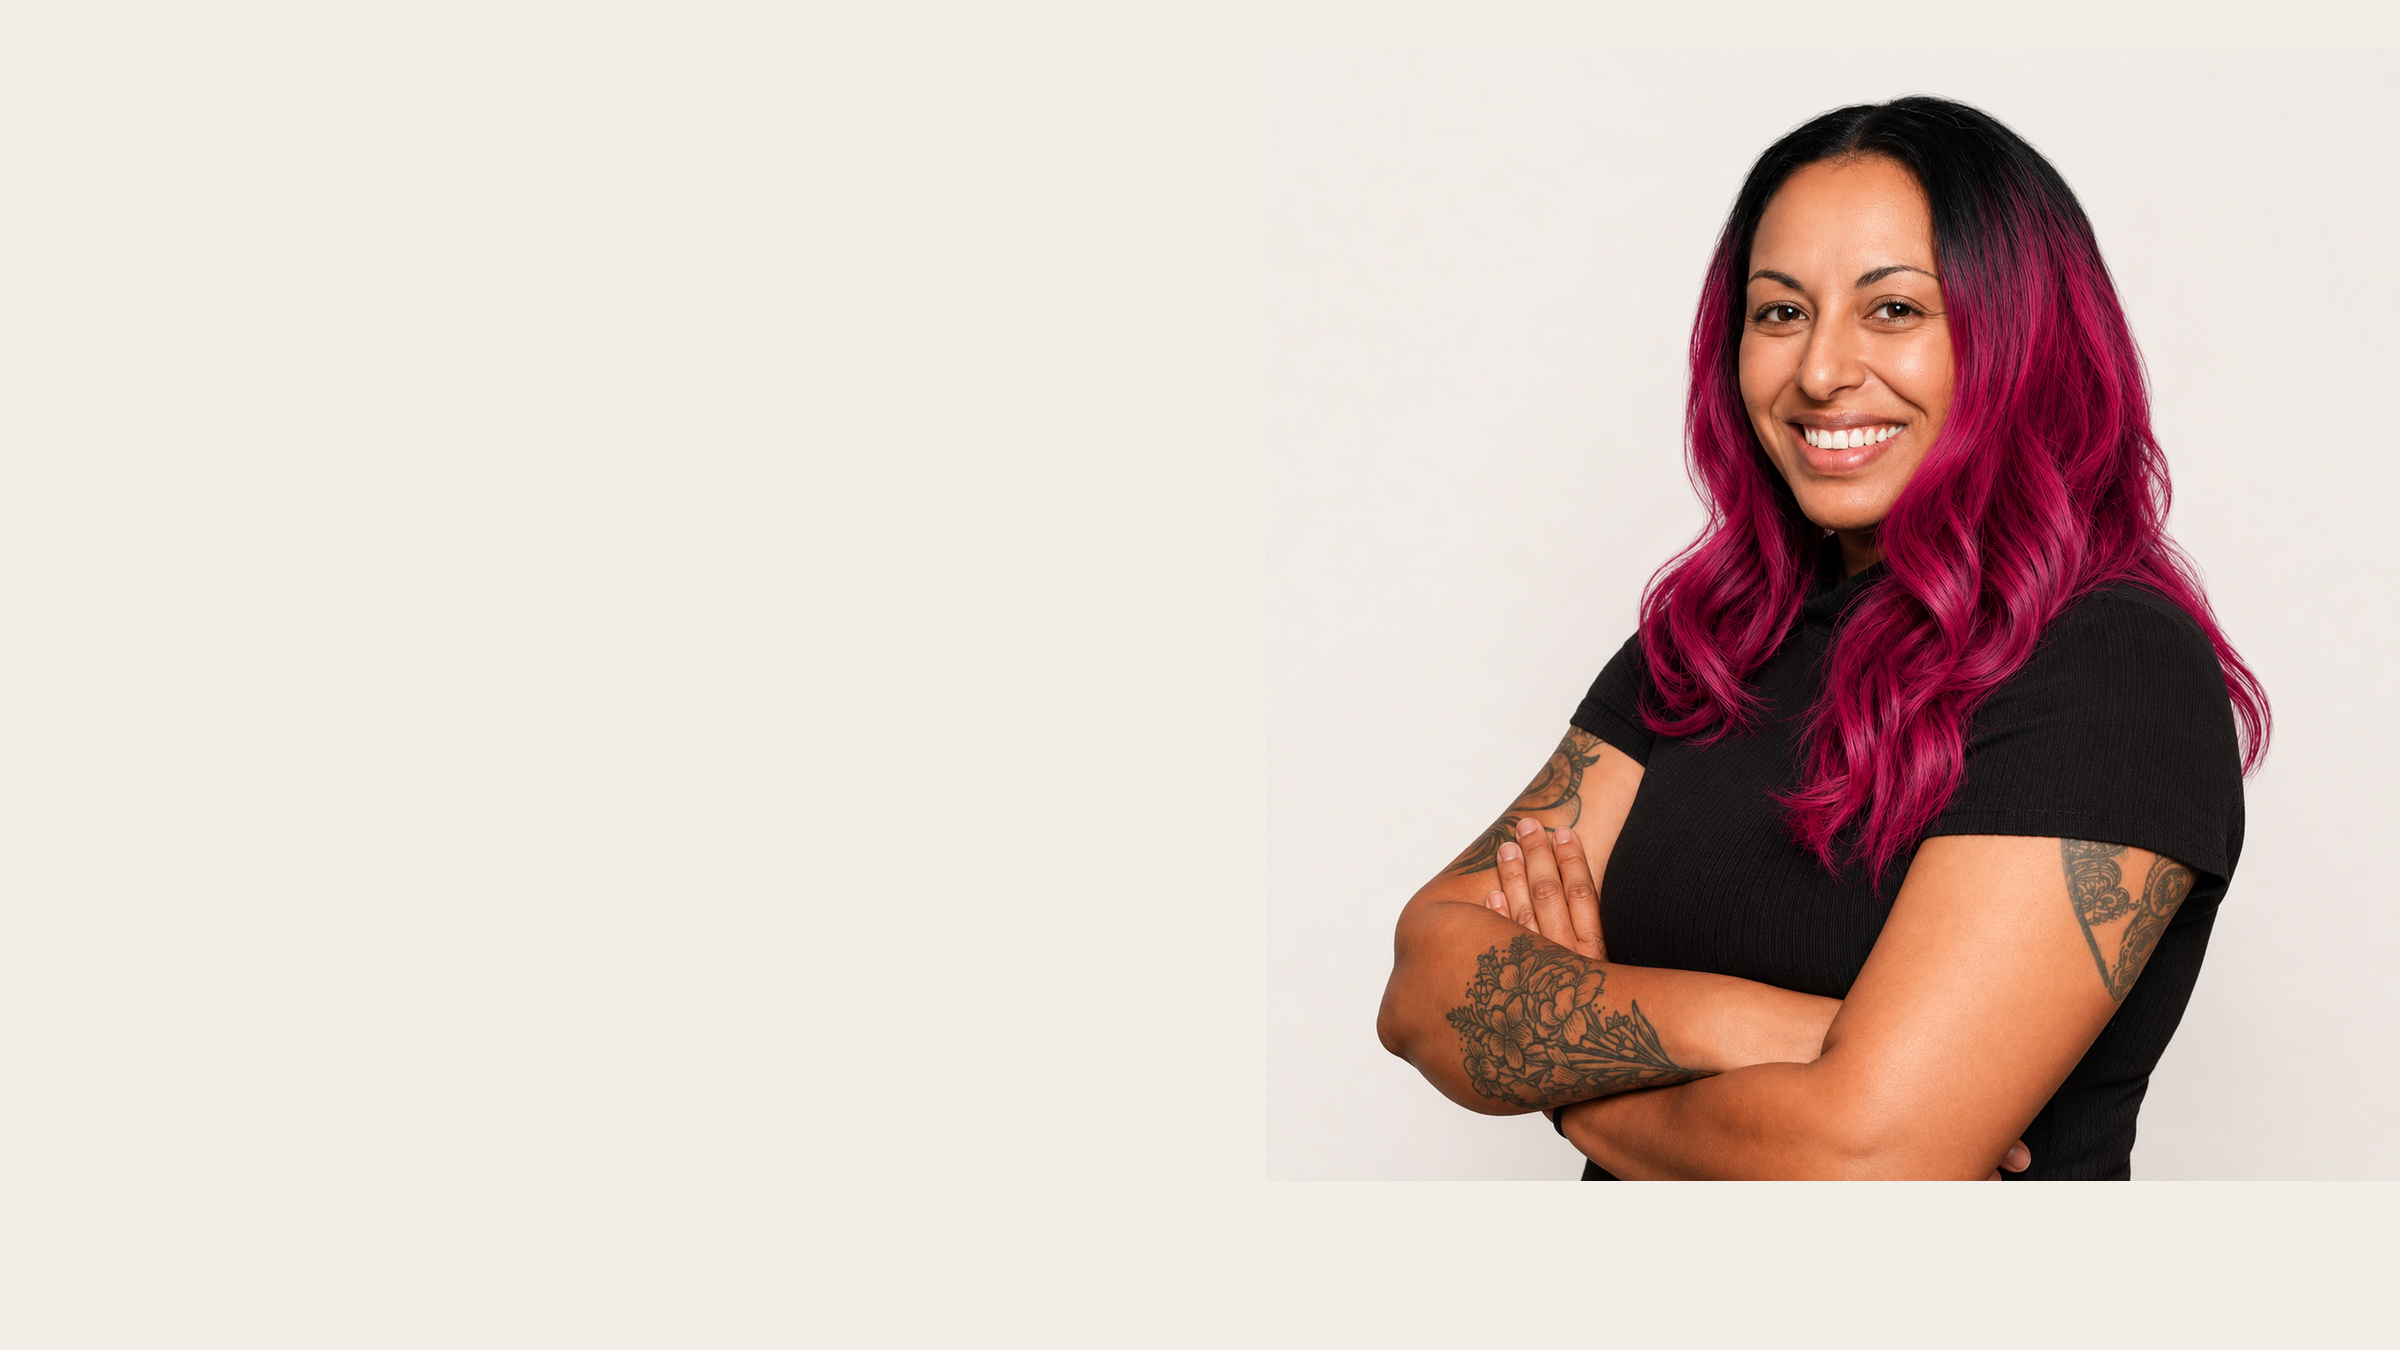
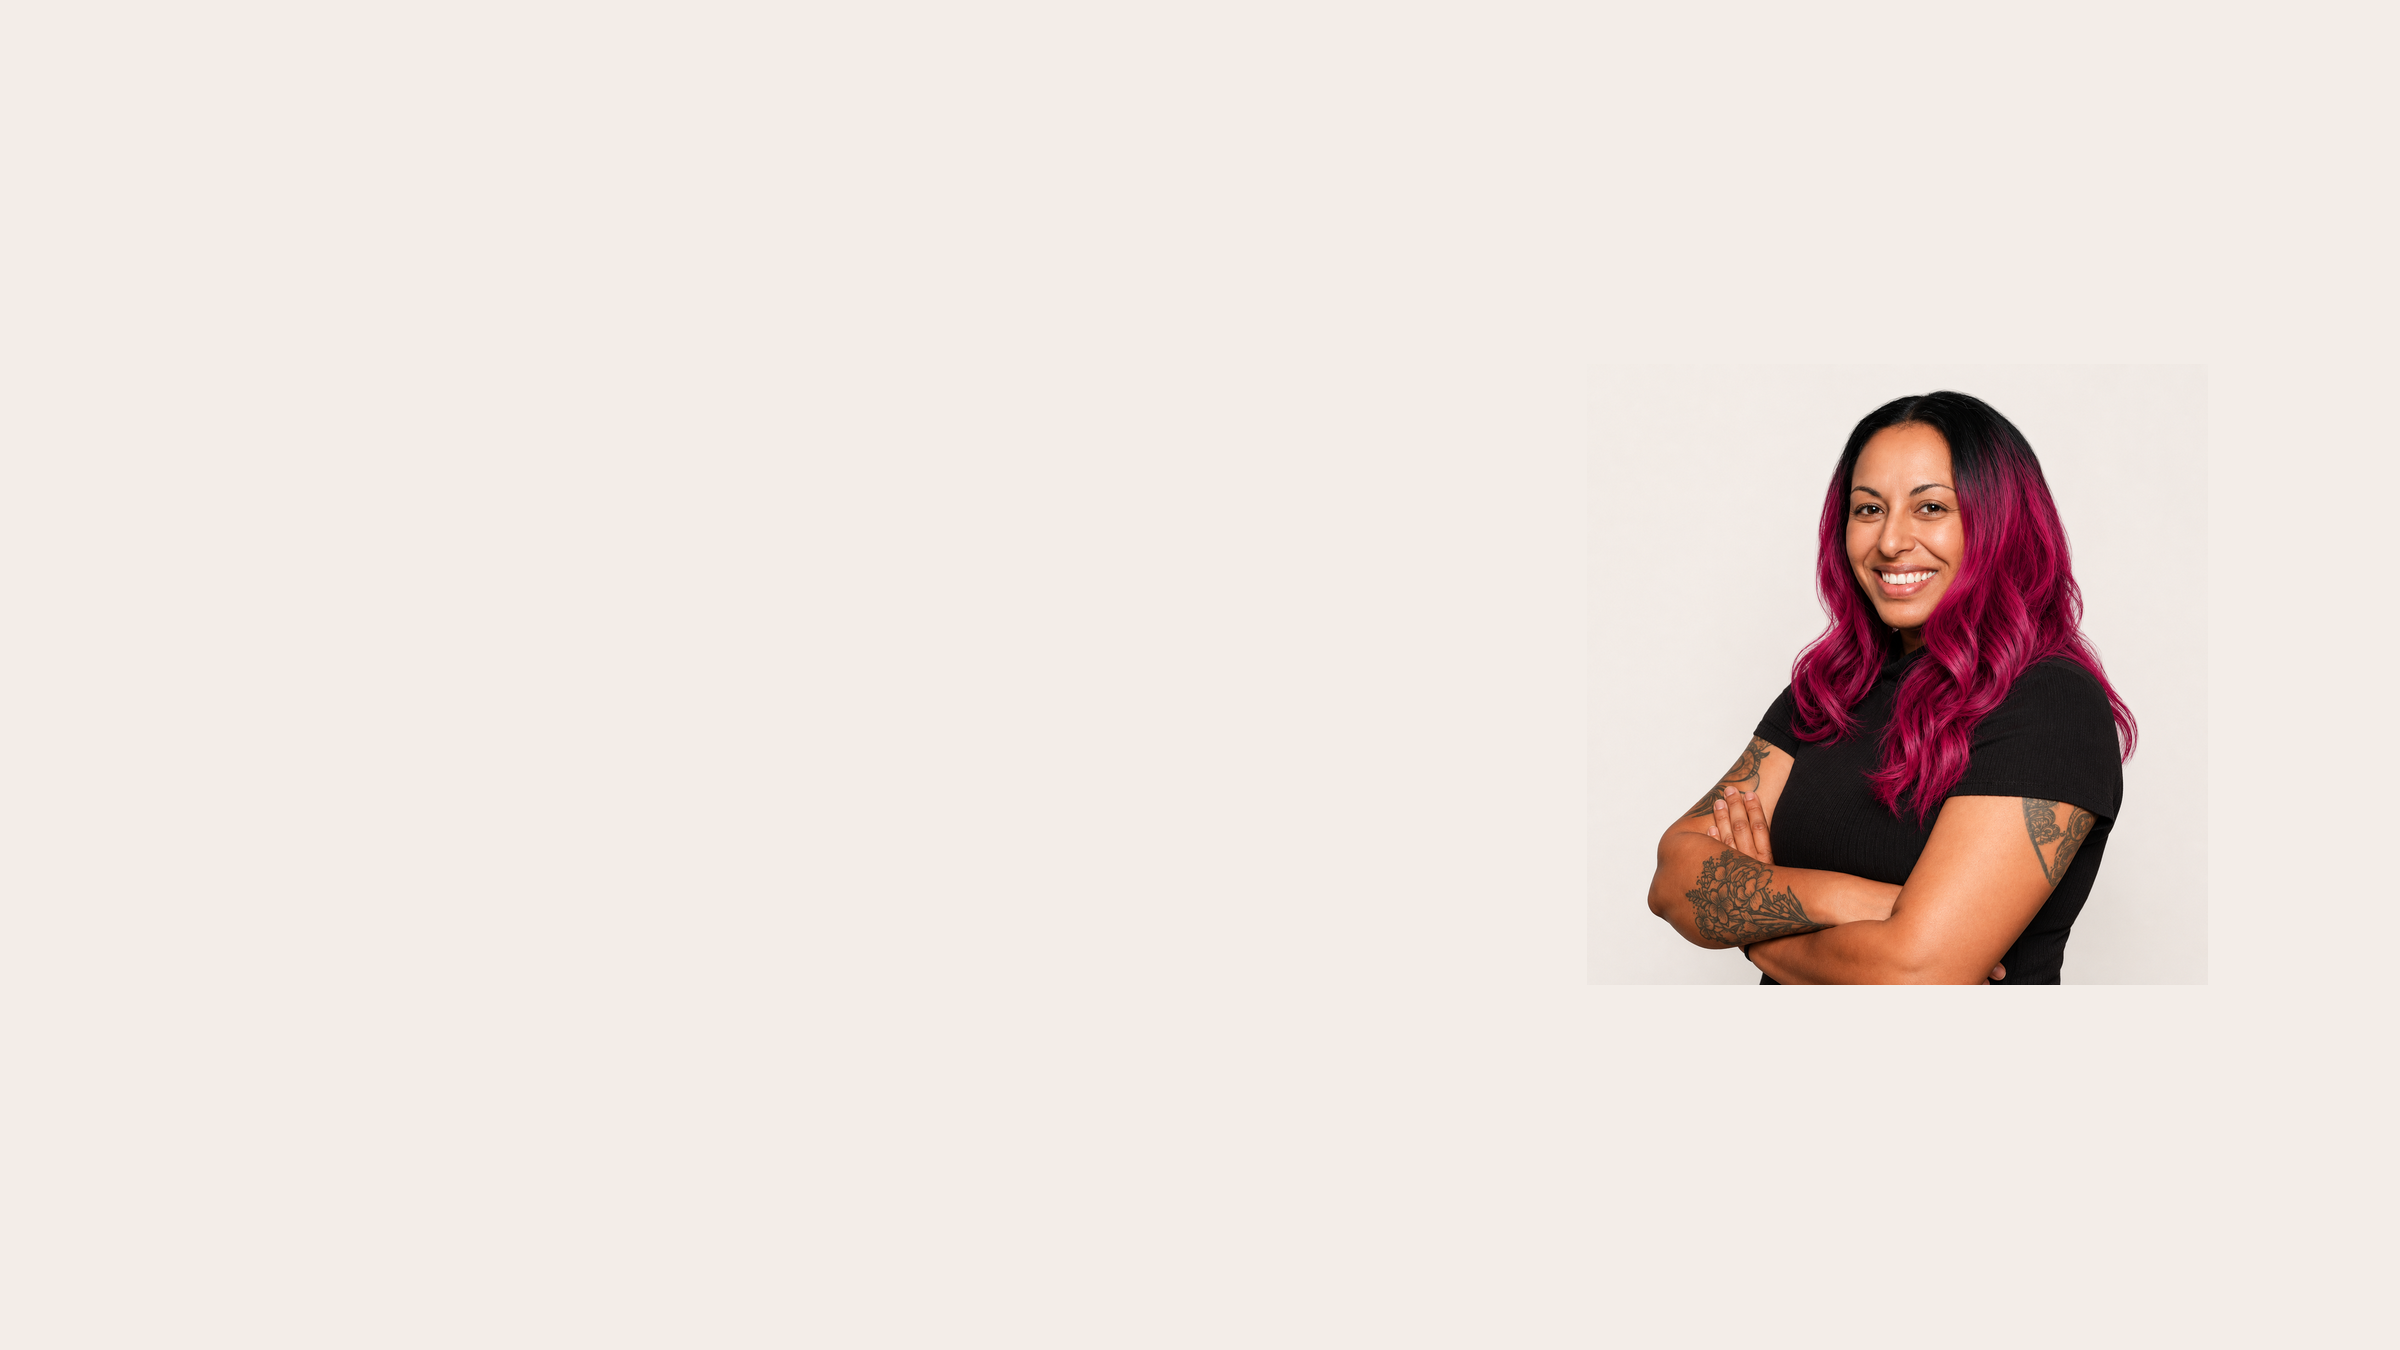
Zoom the homepage portrait out and add a live punctuation field
Pull the studio portrait back so more of Nadin is in frame, then overlay drifting asterisks and marks that gather toward the pointer and scatter on tap.

Changed region(s): [[0.5625, 0.0622, 0.9688, 0.9022]]

diff --git a/components/HeroPunctuation.tsx b/components/HeroPunctuation.tsx
@@ -1,0 +1,164 @@
+"use client";
+
+import { useEffect, useRef } from "react";
+
+const GLYPHS = ["*", "*", "*", "*", "·", "·", ",", "'", ";", ":", "→"] as const;
+
+type Mark = {
+  el: HTMLSpanElement;
+  x: number;
+  y: number;
+  vx: number;
+  vy: number;
+  phase: number;
+  spin: number;
+};
+
+export default function HeroPunctuation() {
+  const rootRef = useRef<HTMLDivElement>(null);
+  const layerRef = useRef<HTMLDivElement>(null);
+
+  useEffect(() => {
+    const root = rootRef.current;
+    const layer = layerRef.current;
+    const stage = root?.parentElement;
+    if (!root || !layer || !stage) return;
+
+    const reduceMotion = window.matchMedia(
+      "(prefers-reduced-motion: reduce)",
+    ).matches;
+    const desktop = window.matchMedia("(min-width: 768px)").matches;
+    const count = desktop ? 58 : 34;
+
+    layer.replaceChildren();
+    const marks: Mark[] = [];
+
+    for (let i = 0; i < count; i += 1) {
+      const el = document.createElement("span");
+      const glyph = GLYPHS[i % GLYPHS.length];
+      el.textContent = glyph;
+      el.className = glyph === "*" ? "hero-mark hero-mark-star" : "hero-mark";
+      const size =
+        glyph === "*" ? 13 + Math.random() * 20 : 11 + Math.random() * 9;
+      el.style.fontSize = `${size}px`;
+      el.style.opacity = String(0.16 + Math.random() * 0.42);
+      layer.appendChild(el);
+      marks.push({
+        el,
+        x: Math.random() * 0.92 + 0.04,
+        y: Math.random() * 0.88 + 0.06,
+        vx: (Math.random() - 0.5) * 0.00028,
+        vy: (Math.random() - 0.5) * 0.00022,
+        phase: Math.random() * Math.PI * 2,
+        spin: (Math.random() - 0.5) * 0.18,
+      });
+    }
+
+    const pointer = { x: 0.32, y: 0.42, active: false, burst: 0 };
+    let burstX = 0.5;
+    let burstY = 0.45;
+
+    const locate = (event: PointerEvent) => {
+      const box = stage.getBoundingClientRect();
+      return {
+        x: (event.clientX - box.left) / box.width,
+        y: (event.clientY - box.top) / box.height,
+      };
+    };
+
+    const onMove = (event: PointerEvent) => {
+      const next = locate(event);
+      pointer.x = next.x;
+      pointer.y = next.y;
+      pointer.active = true;
+    };
+    const onLeave = () => {
+      pointer.active = false;
+    };
+    const onDown = (event: PointerEvent) => {
+      const next = locate(event);
+      burstX = next.x;
+      burstY = next.y;
+      pointer.burst = 1;
+    };
+
+    stage.addEventListener("pointermove", onMove);
+    stage.addEventListener("pointerleave", onLeave);
+    stage.addEventListener("pointerdown", onDown);
+
+    let frame = 0;
+    let tick = 0;
+
+    const place = (mark: Mark, dx = 0, dy = 0, rotate = 0) => {
+      const width = stage.clientWidth;
+      const height = stage.clientHeight;
+      mark.el.style.transform = `translate3d(${(mark.x + dx) * width}px, ${(mark.y + dy) * height}px, 0) rotate(${rotate}deg)`;
+    };
+
+    for (const mark of marks) place(mark);
+
+    const step = () => {
+      tick += 1;
+      if (pointer.burst > 0) pointer.burst *= 0.935;
+
+      for (const mark of marks) {
+        if (!reduceMotion) {
+          mark.x += mark.vx;
+          mark.y += mark.vy;
+          mark.phase += 0.01;
+          if (mark.x < 0.03 || mark.x > 0.97) mark.vx *= -1;
+          if (mark.y < 0.05 || mark.y > 0.95) mark.vy *= -1;
+        }
+
+        let dx = 0;
+        let dy = 0;
+        const originX = pointer.burst > 0.03 ? burstX : pointer.x;
+        const originY = pointer.burst > 0.03 ? burstY : pointer.y;
+        const offsetX = mark.x - originX;
+        const offsetY = mark.y - originY;
+        const dist = Math.sqrt(offsetX * offsetX + offsetY * offsetY) || 0.0001;
+
+        if (pointer.burst > 0.03) {
+          const force = (pointer.burst * 0.09) / dist;
+          dx += offsetX * force;
+          dy += offsetY * force;
+        } else if (pointer.active && dist < 0.2) {
+          const pull = (0.2 - dist) * 0.14;
+          dx -= offsetX * pull;
+          dy -= offsetY * pull;
+        }
+
+        const bobX = reduceMotion ? 0 : Math.sin(mark.phase) * 5;
+        const bobY = reduceMotion ? 0 : Math.cos(mark.phase * 0.85) * 4;
+        place(
+          mark,
+          dx + bobX / stage.clientWidth,
+          dy + bobY / stage.clientHeight,
+          reduceMotion ? 0 : mark.spin * tick,
+        );
+      }
+
+      if (!reduceMotion) frame = window.requestAnimationFrame(step);
+    };
+
+    if (!reduceMotion) frame = window.requestAnimationFrame(step);
+
+    return () => {
+      window.cancelAnimationFrame(frame);
+      stage.removeEventListener("pointermove", onMove);
+      stage.removeEventListener("pointerleave", onLeave);
+      stage.removeEventListener("pointerdown", onDown);
+    };
+  }, []);
+
+  return (
+    <div ref={rootRef} className="hero-punctuation" aria-hidden="true">
+      <span className="hero-crop hero-crop-tl" />
+      <span className="hero-crop hero-crop-tr" />
+      <span className="hero-crop hero-crop-bl" />
+      <span className="hero-crop hero-crop-br" />
+      <span className="hero-ghost-asterisk">*</span>
+      <div ref={layerRef} className="hero-mark-layer" />
+    </div>
+  );
+}

diff --git a/app/page.tsx b/app/page.tsx
@@ -1,5 +1,6 @@
 import Image from "next/image";
 import Link from "next/link";
+import HeroPunctuation from "@/components/HeroPunctuation";
 import ProjectCard from "@/components/ProjectCard";
 import ReferencesCarousel from "@/components/ReferencesCarousel";
 import WorkSampleTicker from "@/components/WorkSampleTicker";
@@ -52,19 +53,21 @@ export default function HomePage() {
   return (
     <>
       {/* Mobile: content first, image second. Desktop: full-bleed overlay */}
-      <section className="bg-[var(--background)] md:relative md:min-h-[calc(100svh-65px)] md:overflow-hidden md:bg-[var(--foreground)] md:text-[var(--background)]">
-        <div className="page-pad flex flex-col pt-28 pb-10 md:hidden">
+      <section className="relative overflow-hidden bg-[var(--background)] md:min-h-[calc(100svh-65px)] md:bg-[var(--foreground)] md:text-[var(--background)]">
+        <HeroPunctuation />
+
+        <div className="page-pad relative z-10 flex flex-col pt-28 pb-8 md:hidden">
           <HeroContent />
         </div>
 
-        <div className="relative aspect-[3/4] max-h-[34rem] w-full md:absolute md:inset-0 md:aspect-auto md:max-h-none md:min-h-[calc(100svh-65px)]">
+        <div className="relative z-0 aspect-[3/4] max-h-[28rem] w-full md:absolute md:inset-0 md:aspect-auto md:max-h-none md:min-h-[calc(100svh-65px)]">
           <Image
             src={hero.images.desktop}
             alt={hero.images.alt}
             fill
             priority
             sizes="100vw"
-            className="hidden object-cover object-right md:block"
+            className="hidden object-contain object-right md:block"
           />
           <Image
             src={hero.images.mobile}
@@ -72,9 +75,9 @@ export default function HomePage() {
             fill
             priority
             sizes="100vw"
-            className="object-cover object-[center_20%]"
+            className="object-contain object-center"
           />
-          <div className="absolute inset-0 hidden bg-gradient-to-r from-black/70 via-black/40 to-transparent md:block" />
+          <div className="absolute inset-0 hidden bg-gradient-to-r from-black/75 via-black/35 to-transparent md:block" />
         </div>
 
         <div className="page-pad relative z-10 hidden min-h-[calc(100svh-65px)] flex-col justify-center pb-24 pt-20 md:flex">

diff --git a/app/globals.css b/app/globals.css
@@ -160,3 +160,107 @@ body {
   opacity: 1;
   transform: translateY(0);
 }
+
+.hero-punctuation {
+  pointer-events: none;
+  position: absolute;
+  inset: 0;
+  z-index: 5;
+  overflow: hidden;
+}
+
+.hero-mark-layer {
+  position: absolute;
+  inset: 0;
+}
+
+.hero-mark {
+  position: absolute;
+  top: 0;
+  left: 0;
+  font-family: var(--font-instrument-serif), "Instrument Serif", Georgia, serif;
+  line-height: 1;
+  color: var(--accent);
+  will-change: transform;
+  user-select: none;
+}
+
+.hero-mark-star {
+  font-weight: 700;
+}
+
+.hero-ghost-asterisk {
+  position: absolute;
+  top: 8%;
+  left: -4%;
+  font-family: var(--font-instrument-serif), "Instrument Serif", Georgia, serif;
+  font-size: clamp(140px, 28vw, 340px);
+  line-height: 0.8;
+  color: var(--accent);
+  opacity: 0.1;
+  animation: hero-breathe 8s ease-in-out infinite;
+}
+
+.hero-crop {
+  position: absolute;
+  width: 22px;
+  height: 22px;
+  border-color: var(--accent);
+  opacity: 0.55;
+}
+
+.hero-crop-tl {
+  top: 18px;
+  left: 18px;
+  border-top: 1px solid;
+  border-left: 1px solid;
+}
+
+.hero-crop-tr {
+  top: 18px;
+  right: 18px;
+  border-top: 1px solid;
+  border-right: 1px solid;
+}
+
+.hero-crop-bl {
+  bottom: 18px;
+  left: 18px;
+  border-bottom: 1px solid;
+  border-left: 1px solid;
+}
+
+.hero-crop-br {
+  bottom: 18px;
+  right: 18px;
+  border-bottom: 1px solid;
+  border-right: 1px solid;
+}
+
+@keyframes hero-breathe {
+  0%,
+  100% {
+    transform: scale(1) rotate(0deg);
+    opacity: 0.08;
+  }
+  50% {
+    transform: scale(1.06) rotate(8deg);
+    opacity: 0.16;
+  }
+}
+
+@media (min-width: 768px) {
+  .hero-mark {
+    color: color-mix(in srgb, var(--accent) 80%, white);
+  }
+
+  .hero-ghost-asterisk {
+    opacity: 0.14;
+  }
+}
+
+@media (prefers-reduced-motion: reduce) {
+  .hero-ghost-asterisk {
+    animation: none;
+  }
+}
